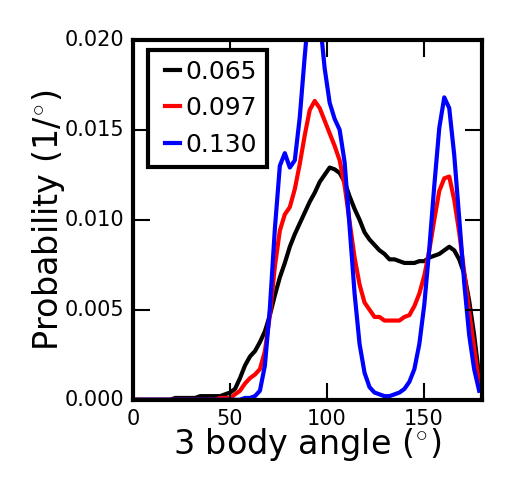
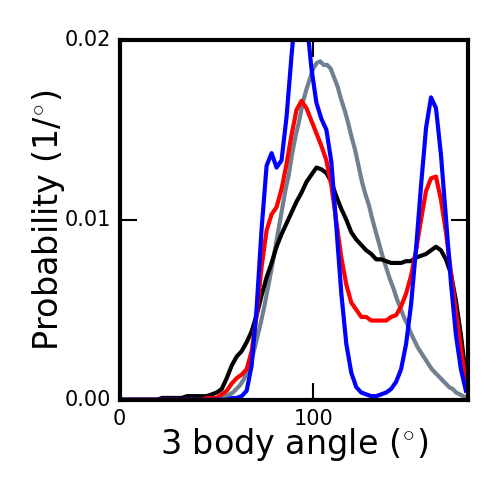
Adding in legends, new plots, trying to calc gg sep for small sys

diff --git a/paper/confinement.tex b/paper/confinement.tex
@@ -173,47 +173,31 @@ The transitions in rigid systems and structures observed as a function of 2D num
 	\label{fig:dgg_2}
 \end{figure}
 
+\setlength{\fboxsep}{0.75pt}%
+\setlength{\fboxrule}{1.2pt}%
+
 \begin{figure}[h!]
 	\centering
- 	\textbf{RIGID} \\
-  \begin{subfigure}[b]{0.278\textwidth}
-    \includegraphics[trim={0.25cm 0.25cm 0.25cm 0.15cm},clip,width=0.99\textwidth]{g_r_2D_6_7_8_1_1_r}
-    \includegraphics[trim={0.25cm 0.25cm 0.25cm 0.15cm},clip,width=.99\textwidth]{ang_3B_6_7_8_r}
+	\includegraphics[width=0.46\textwidth]{leg_bulk_6_7_8}\\
+  \fbox{\begin{subfigure}[b]{0.48\textwidth}
+    \includegraphics[trim={0.05cm 0.30cm 0.25cm 0.15cm},clip,width=0.46\textwidth]{g_r_2D_6_7_8_r}
+    \includegraphics[trim={0.25cm 0.25cm 0.05cm 0.15cm},clip,width=0.485\textwidth]{ang_3B_6_7_8_r} 
+     \fbox{\includegraphics[width=0.295\textwidth]{6a_r3}}
+     \fbox{\includegraphics[width=0.305\textwidth]{7a_r4} }
+     \fbox{\includegraphics[width=0.305\textwidth]{8a_r4}}
     \caption{}
     \label{fig:gr_ang_6_7_8_r}
-  \end{subfigure}
-  \begin{subfigure}[b]{0.22\textwidth}
-    \includegraphics[trim={1.05cm 0.25cm 0.25cm 0.15cm},clip,width=.99\textwidth]{g_r_2D_9_10_11_1_1_r}
-    \includegraphics[trim={1.05cm 0.25cm 0.25cm 0.15cm},clip,width=.99\textwidth]{ang_3B_9_10_11_r}
-   \caption{}
-    \label{fig:gr_ang_9_10_11_r}
-  \end{subfigure} 
-    \begin{subfigure}[b]{0.22\textwidth}
-    \includegraphics[trim={1.05cm 0.25cm 0.25cm 0.15cm},clip,width=.99\textwidth]{g_r_2D_12_14_16_1_1_r}
-    \includegraphics[trim={1.05cm 0.25cm 0.25cm 0.15cm},clip,width=.99\textwidth]{ang_3B_12_14_16_r}
-    \caption{}
-    \label{fig:gr_ang_12_14_16_r}
-  \end{subfigure} \\  
-	\textbf{FLEXIBLE} \\
-  \begin{subfigure}[b]{0.278\textwidth}
-    \includegraphics[trim={0.25cm 0.25cm 0.25cm 0.15cm},clip,width=0.99\textwidth]{g_r_2D_6_7_8_1_1_f}
-    \includegraphics[trim={0.25cm 0.25cm 0.25cm 0.15cm},clip,width=.99\textwidth]{ang_3B_6_7_8_f}
+  \end{subfigure}}
+  \fbox{\begin{subfigure}[b]{0.48\textwidth}
+    \includegraphics[trim={0.05cm 0.30cm 0.25cm 0.15cm},clip,width=0.46\textwidth]{g_r_2D_6_7_8_f}
+    \includegraphics[trim={0.25cm 0.25cm 0.05cm 0.15cm},clip,width=0.485\textwidth]{ang_3B_6_7_8_f}
+     \fbox{\includegraphics[trim={0.0cm 0.50cm 0.0cm 4.45cm},clip,width=0.295\textwidth]{6a_f3}}
+     \fbox{\includegraphics[width=0.305\textwidth]{7a_f3}}
+     \fbox{\includegraphics[width=0.305\textwidth]{8a_f3}}
     \caption{}
     \label{fig:gr_ang_6_7_8_f}
-  \end{subfigure}
-  \begin{subfigure}[b]{0.22\textwidth}
-    \includegraphics[trim={1.05cm 0.25cm 0.25cm 0.15cm},clip,width=.99\textwidth]{g_r_2D_9_10_11_1_1_f}
-    \includegraphics[trim={1.05cm 0.25cm 0.25cm 0.15cm},clip,width=.99\textwidth]{ang_3B_9_10_11_f}
-   \caption{}
-    \label{fig:gr_ang_9_10_11_f}
-  \end{subfigure} 
-    \begin{subfigure}[b]{0.22\textwidth}
-    \includegraphics[trim={1.05cm 0.25cm 0.25cm 0.15cm},clip,width=.99\textwidth]{g_r_2D_12_14_16_1_1_f}
-    \includegraphics[trim={1.05cm 0.25cm 0.25cm 0.15cm},clip,width=.99\textwidth]{ang_3B_12_14_16_f}
-    \caption{}
-    \label{fig:gr_ang_12_14_16_f}
-  \end{subfigure} \\  
-	\caption{\textit{Lateral oxygen-oxygen pair correlation functions and three-body angle distributions.} Distribution of water oxygen distances (top panels) and distribution of intralayer 3B angle formed between and given oxygen and its 2 nearest neighbors. (\protect\subref{fig:gr_ang_6_7_8_r},\protect\subref{fig:gr_ang_6_7_8_f}) Monolayer systems, (\protect\subref{fig:gr_ang_9_10_11_r},\protect\subref{fig:gr_ang_9_10_11_f}) Bilayer systems, (\protect\subref{fig:gr_ang_12_14_16_r},\protect\subref{fig:gr_ang_12_14_16_f}) Trilayer systems. G(r) curves have been shifted for clarity.}
+  \end{subfigure}}
+	\caption{\textit{Monolayer lateral oxygen-oxygen pair correlation functions, three-body angle distributions, and snapshots of monolayer systems.} (\protect\subref{fig:gr_ang_6_7_8_r}) rigid systems, (\protect\subref{fig:gr_ang_6_7_8_f}) flexible systems. \textbf{Top.} Distribution of water oxygen distances and distribution of intralayer 3B angle formed between and given oxygen and its 2 nearest neighbors. \textbf{Bottom.} Snapshots of systems from left to right: \(\rho_{2D}=\) 0.065, 0.097, 0.130.}
 	\label{fig:gr_all}
 \end{figure}
 
@@ -228,6 +212,49 @@ The transitions in rigid systems and structures observed as a function of 2D num
 \printbibliography
 \end{document}
 
+\begin{figure}[h!]
+	\centering
+ 	\textbf{RIGID} \\
+  \begin{subfigure}[b]{0.49\textwidth}
+    \includegraphics[trim={0.25cm 0.25cm 0.25cm 0.15cm},clip,width=0.46\textwidth]{g_r_2D_6_7_8_r}
+    \includegraphics[trim={0.25cm 0.25cm 0.25cm 0.15cm},clip,width=0.485\textwidth]{ang_3B_6_7_8_r}
+    \caption{}
+    \label{fig:gr_ang_6_7_8_r}
+  \end{subfigure}
+  \begin{subfigure}[b]{0.49\textwidth}
+    \includegraphics[trim={0.25cm 0.25cm 0.25cm 0.15cm},clip,width=.49\textwidth]{g_r_2D_9_10_11_r}
+    \includegraphics[trim={0.25cm 0.25cm 0.25cm 0.15cm},clip,width=.49\textwidth]{ang_3B_9_10_11_r}
+   \caption{}
+    \label{fig:gr_ang_9_10_11_r}
+  \end{subfigure} 
+    \begin{subfigure}[b]{0.22\textwidth}
+    \includegraphics[trim={1.05cm 0.25cm 0.25cm 0.15cm},clip,width=.49\textwidth]{g_r_2D_12_14_16_r}
+    \includegraphics[trim={1.05cm 0.25cm 0.25cm 0.15cm},clip,width=.49\textwidth]{ang_3B_12_14_16_r}
+    \caption{}
+    \label{fig:gr_ang_12_14_16_r}
+  \end{subfigure} \\  
+	\textbf{FLEXIBLE} \\
+  \begin{subfigure}[b]{0.278\textwidth}
+    \includegraphics[trim={0.25cm 0.25cm 0.25cm 0.15cm},clip,width=0.99\textwidth]{g_r_2D_6_7_8_f}
+    \includegraphics[trim={0.25cm 0.25cm 0.25cm 0.15cm},clip,width=.99\textwidth]{ang_3B_6_7_8_f}
+    \caption{}
+    \label{fig:gr_ang_6_7_8_f}
+  \end{subfigure}
+  \begin{subfigure}[b]{0.22\textwidth}
+    \includegraphics[trim={1.05cm 0.25cm 0.25cm 0.15cm},clip,width=.99\textwidth]{g_r_2D_9_10_11_f}
+    \includegraphics[trim={1.05cm 0.25cm 0.25cm 0.15cm},clip,width=.99\textwidth]{ang_3B_9_10_11_f}
+   \caption{}
+    \label{fig:gr_ang_9_10_11_f}
+  \end{subfigure} 
+    \begin{subfigure}[b]{0.22\textwidth}
+    \includegraphics[trim={1.05cm 0.25cm 0.25cm 0.15cm},clip,width=.99\textwidth]{g_r_2D_12_14_16_f}
+    \includegraphics[trim={1.05cm 0.25cm 0.25cm 0.15cm},clip,width=.99\textwidth]{ang_3B_12_14_16_f}
+    \caption{}
+    \label{fig:gr_ang_12_14_16_f}
+  \end{subfigure} \\  
+	\caption{\textit{Lateral oxygen-oxygen pair correlation functions and three-body angle distributions.} Distribution of water oxygen distances (top panels) and distribution of intralayer 3B angle formed between and given oxygen and its 2 nearest neighbors. (\protect\subref{fig:gr_ang_6_7_8_r},\protect\subref{fig:gr_ang_6_7_8_f}) Monolayer systems, (\protect\subref{fig:gr_ang_9_10_11_r},\protect\subref{fig:gr_ang_9_10_11_f}) Bilayer systems, (\protect\subref{fig:gr_ang_12_14_16_r},\protect\subref{fig:gr_ang_12_14_16_f}) Trilayer systems. G(r) curves have been shifted for clarity.}
+	\label{fig:gr_all}
+\end{figure}
 
 %\begin{itemize}
 %	\item Effect of varying the 2D density of the water. 

diff --git a/python/plot_gr.py b/python/plot_gr.py
@@ -38,7 +38,7 @@ def plot_scatter(plt_nm, csvL, sep, ln):
     matplotlib.rcParams.update({'font.size': 8})
     ax.xaxis.set_major_locator(MaxNLocator())
     ax.yaxis.set_major_locator(MaxNLocator())
-    cos = [colorL[0], colorL[1], colorL[-3]]
+    cos = [colorL[-1], colorL[0], colorL[1], colorL[-4]]
     for i in range(len(csvL)):
         for j in range(len(csvL[i])):
            cls = get_plt_lst(csvL[i][j].csvfname); dat = csvL[i][j].dat
@@ -51,16 +51,20 @@ def plot_scatter(plt_nm, csvL, sep, ln):
           #for k in cls:
           #    ax.plot(dat[0], dat[k]+0 , label="x="+csvL[i][j].key[k][1:-2], color = colorL[ct])
           #    ct += 1
+
+           if "bulk" != dens[int(fn[3])]: lg = "{0:.3f}".format(dens[int(fn[3])])
+           else:                          lg = "bulk"
            ax.plot(dat[0], np.mean(dat[cls],axis=0), 
-                   color = cos[ct], label="{0:.3f}".format(dens[int(fn[3])]))
+                   color = cos[ct], label=lg)
           #ax.plot(dat[0], np.mean(dat[cls],axis=0)+ct*4,  color = cos[ct])
           #plt.text(6.0, ct*4+2.05, r'$\rho_{{2D}}={0:.3f}$'.format(dens[int(fn[3])]),
           #         color = cos[ct])
            ct += 1
-   #ax.legend(ncol = 1, columnspacing = 0.4,
+   #ax.legend(ncol = 4, columnspacing = 0.4,
    #    fontsize =  5 , handletextpad = 0.2,
    #    handlelength = 1.3, borderaxespad = -0.9,
-   #    bbox_to_anchor = (0.9,0.9),
+   #   #bbox_to_anchor = (0.9,0.9),
+   #    bbox_to_anchor = (1.2,1.2),
    #    )
     ax.set_xlim([0,12.0]); ax.set_ylim([0,4.0])
    #ax.set_xlim([0,12.0]); ax.set_ylim([0,13.0])
@@ -71,6 +75,14 @@ def plot_scatter(plt_nm, csvL, sep, ln):
     ax.yaxis.labelpad = -0.6; ax.xaxis.labelpad = -0.6
     fname = plt_nm+mn+csvL[i][j].csvfname[-7:-4]+".png"
     plt.savefig(fname, format='png', bbox_inches = 'tight', dpi=300) 
+
+   #fn = 'ang_3B_'+mn[:-1]+'.png'
+   #im = plt.imread(fn, format='png')
+   #xl = ax.get_xlim(); yl = ax.get_ylim()
+   #newax = f.add_axes([0.455, 0.37, 0.50, 0.47], anchor='SW',) # rigid
+   #newax.imshow(im, extent=[0, 1,0., 1.]) #, zorder=19)
+   #newax.axis('off')
+   #plt.savefig(plt_nm+mn+csvL[i][j].csvfname[-7:-4]+'_insert.png',bbox_inches='tight',)
     plt.close()
 
 def main():                                                                        

diff --git a/python/plot_3B_angles_multi.py b/python/plot_3B_angles_multi.py
@@ -3,7 +3,7 @@ import numpy as np
 import matplotlib
 import matplotlib.pyplot as plt
 from matplotlib.ticker import *
-MaxNLocator.default_params['nbins']=4
+MaxNLocator.default_params['nbins']=2
 
 from csvfile import CSVFile
 from dics import colorL, dens
@@ -15,19 +15,20 @@ def plot_scatter(plt_nm, csvL, sep, ln):
    #matplotlib.rcParams.update({'font.size': 8})
     ax.xaxis.set_major_locator(MaxNLocator())
     ax.yaxis.set_major_locator(MaxNLocator())
-    cos = [colorL[0], colorL[1], colorL[-3]]
+    cos = [colorL[-1], colorL[0], colorL[1], colorL[-4]]
     for i in range(len(csvL)):
         for j in range(len(csvL[i])):
            fn = csvL[i][j].csvfname.split("_")
+           if "bulk" != dens[int(fn[0][3:])]: lg = "{0:.3f}".format(dens[int(fn[0][3:])])
+           else:                          lg = "bulk"
            ax.plot(csvL[i][j].dat[0],csvL[i][j].dat[1],
-                   color = cos[ct], label='{0:.3f}'.format(dens[int(fn[0][3:])]))
-           mn += fn[0][3:] + "_"
-           ct += 1
-    ax.legend(ncol = 1, columnspacing = -0.4,
-        fontsize =  6 , handletextpad = -0.1,
-        handlelength = 1.2, borderaxespad = -0.9,
-        bbox_to_anchor = (0.32,0.91),
-        )
+                   color = cos[ct], label=lg)
+           mn += fn[0][3:] + "_";  ct += 1
+   #ax.legend(ncol = 1, columnspacing = -0.4,
+   #    fontsize =  6 , handletextpad = -0.1,
+   #    handlelength = 1.2, borderaxespad = -0.9,
+   #    bbox_to_anchor = (0.32,0.91),
+   #    )
     ax.set_xlim([0,180]); ax.set_ylim([0,0.02])
     ax.set_xlabel(r"3 body angle ($^{\circ}$)",fontsize= 8)
     ax.set_ylabel(r"Probability (1/$^{\circ}$)",fontsize= 8)

diff --git a/python/distance_graphene.py b/python/distance_graphene.py
@@ -39,6 +39,11 @@ def get_dist(xyz, dims):
                     w_d1.append(d1); w_d2.append(d2)
                     dgg = len(d1) * [abs(c2_x - c1_x)]
                     cc_d.append(dgg)
+                else:
+                    c1_p = c1[np.all(np.array([c1_yy==yy,c1_zz==zz]),axis=0),0]
+                    c2_p = c2[np.all(np.array([c2_yy==yy,c2_zz==zz]),axis=0),0]
+                    w_d1.append(0.0); w_d2.append(0.0)
+                    cc_d.append([abs(c2_x - c1_x)])
     w_d1 = list(itertools.chain(*w_d1)); w_d2 = list(itertools.chain(*w_d2))
     return w_d1, w_d2, list(itertools.chain(*cc_d))
 

diff --git a/python/dics.py b/python/dics.py
@@ -11,7 +11,8 @@ colorL = [
           [0.777, 0.441, 0.441],
           [0,0,1], 
           [0.777, 0.379, 0.078], 
-          [0., 0.9297, 0.9297]
+          [0., 0.9297, 0.9297],
+          [0.439, 0.502, 0.565],
          ]
 
 dens = {
@@ -26,6 +27,6 @@ dens = {
          14  :   0.325,
          16  :   0.390,
          20  :   0.521,
-         37  :   0.99,   # for bulk
+         37  :   "bulk",   # for bulk
 }
 
